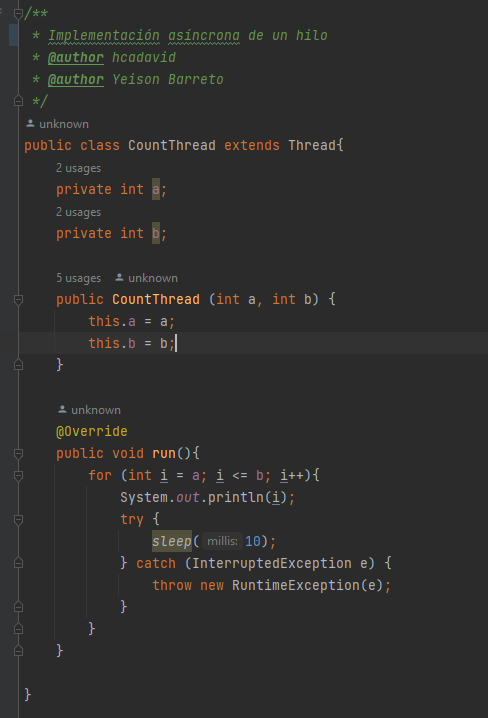
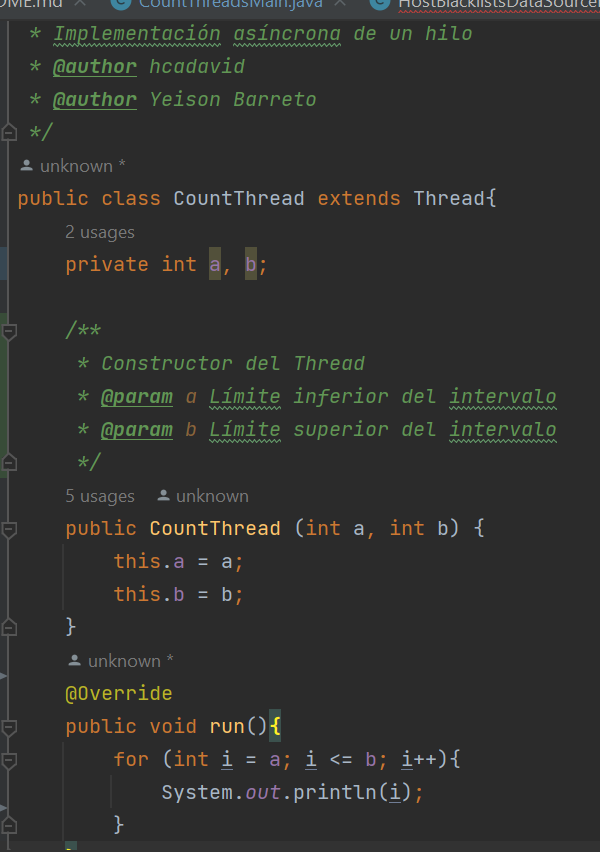
BlackList

diff --git a/src/main/java/edu/eci/arsw/blacklistvalidator/HostBlackListsValidator.java b/src/main/java/edu/eci/arsw/blacklistvalidator/HostBlackListsValidator.java
@@ -6,6 +6,8 @@
 package edu.eci.arsw.blacklistvalidator;
 
 import edu.eci.arsw.spamkeywordsdatasource.HostBlacklistsDataSourceFacade;
+
+import java.util.ArrayList;
 import java.util.LinkedList;
 import java.util.List;
 import java.util.logging.Level;
@@ -17,7 +19,7 @@ import java.util.logging.Logger;
  */
 public class HostBlackListsValidator {
 
-    private static final int BLACK_LIST_ALARM_COUNT=5;
+    protected static final int BLACK_LIST_ALARM_COUNT=5;
     
     /**
      * Check the given host's IP address in all the available black lists,
@@ -29,28 +31,32 @@ public class HostBlackListsValidator {
      * @param ipaddress suspicious host's IP address.
      * @return  Blacklists numbers where the given host's IP address was found.
      */
-    public List<Integer> checkHost(String ipaddress){
-        
-        LinkedList<Integer> blackListOcurrences=new LinkedList<>();
-        
-        int ocurrencesCount=0;
+    public List<Integer> checkHost(String ipaddress, int n){
+
         
         HostBlacklistsDataSourceFacade skds=HostBlacklistsDataSourceFacade.getInstance();
-        
-        int checkedListsCount=0;
-        
-        for (int i=0;i<skds.getRegisteredServersCount() && ocurrencesCount<BLACK_LIST_ALARM_COUNT;i++){
-            checkedListsCount++;
-            
-            if (skds.isInBlackListServer(i, ipaddress)){
-                
-                blackListOcurrences.add(i);
-                
-                ocurrencesCount++;
+
+        int part = skds.getRegisteredServersCount()/n;
+        ArrayList<OcurrencesHostBlackListsValidator> validators = new ArrayList<OcurrencesHostBlackListsValidator>();
+
+        try {
+            for (int i = 0; i<skds.getRegisteredServersCount(); i+=part) {
+                int b = (i + part) >= skds.getRegisteredServersCount() ? skds.getRegisteredServersCount() : (i += part);
+                OcurrencesHostBlackListsValidator validator = new OcurrencesHostBlackListsValidator(i, b, ipaddress, skds);
+                validators.add(validator);
+                validator.start();
             }
-        }
-        
-        if (ocurrencesCount>=BLACK_LIST_ALARM_COUNT){
+            for (OcurrencesHostBlackListsValidator validator : validators) {
+                validator.join();
+            }
+        } catch (Exception e) {}
+
+        LinkedList<Integer> blackListOcurrences = (LinkedList<Integer>) OcurrencesHostBlackListsValidator.getBlackListOcurrences();
+        int checkedListsCount = OcurrencesHostBlackListsValidator.getCheckedListsCount();
+        int ocurrencesCount = OcurrencesHostBlackListsValidator.getOcurrencesCount();
+
+
+        if (ocurrencesCount >=BLACK_LIST_ALARM_COUNT){
             skds.reportAsNotTrustworthy(ipaddress);
         }
         else{

diff --git a/src/main/java/edu/eci/arsw/blacklistvalidator/OcurrencesHostBlackListsValidator.java b/src/main/java/edu/eci/arsw/blacklistvalidator/OcurrencesHostBlackListsValidator.java
@@ -1,0 +1,58 @@
+package edu.eci.arsw.blacklistvalidator;
+
+import edu.eci.arsw.spamkeywordsdatasource.HostBlacklistsDataSourceFacade;
+
+import java.util.Collections;
+import java.util.LinkedList;
+import java.util.List;
+import java.util.concurrent.atomic.AtomicInteger;
+
+
+public class OcurrencesHostBlackListsValidator extends Thread{
+    private HostBlacklistsDataSourceFacade skds;
+    private String ipaddress;
+    private int a, b;
+
+    private static AtomicInteger checkedListsCount = new AtomicInteger(0);
+    private static AtomicInteger ocurrencesCount = new AtomicInteger(0);
+    private static List<Integer> blackListOcurrences = Collections.synchronizedList(new LinkedList<Integer>());
+
+    public OcurrencesHostBlackListsValidator(int a, int b, String ipaddress, HostBlacklistsDataSourceFacade skds) {
+        this.skds = skds;
+        this.ipaddress = ipaddress;
+        this.a = a;
+        this.b = b;
+    }
+
+    @Override
+    public void run(){
+        for (int i = a; i < b; i++){
+            if (ocurrencesCount.get() < HostBlackListsValidator.BLACK_LIST_ALARM_COUNT){
+                if (skds.isInBlackListServer(i, ipaddress)) addOcurrence(i);
+            } else break;
+            increaseCheckedListCount();
+        }
+    }
+
+    static public int getCheckedListsCount() {
+        return checkedListsCount.get();
+    }
+
+    static public int getOcurrencesCount() {
+        return ocurrencesCount.get();
+    }
+
+    static public List<Integer> getBlackListOcurrences() {
+        return new LinkedList<Integer>(blackListOcurrences);
+    }
+
+    synchronized void increaseCheckedListCount(){
+        checkedListsCount.incrementAndGet();
+    }
+
+    synchronized void addOcurrence(int ocurrence){
+        blackListOcurrences.add(ocurrence);
+        ocurrencesCount.incrementAndGet();
+    }
+
+}

diff --git a/src/main/java/edu/eci/arsw/blacklistvalidator/Main.java b/src/main/java/edu/eci/arsw/blacklistvalidator/Main.java
@@ -12,12 +12,34 @@ import java.util.List;
  * @author hcadavid
  */
 public class Main {
-    
+
     public static void main(String a[]){
+
+        Runtime vjm = Runtime.getRuntime();
+        int numberCores = vjm.availableProcessors();
+
+        System.out.println("\nNumber of Threads: "+numberCores);
+        System.out.println("Performance: " + testByThreadsNumber("202.24.34.55", numberCores));
+        System.out.println();
+
+        numberCores *= 2;
+
+        System.out.println("\nNumber of Threads: "+numberCores);
+        System.out.println("Performance: " + testByThreadsNumber("202.24.34.55", numberCores));
+        System.out.println();
+    }
+
+    public static String testByThreadsNumber(String ipaddress, int threadsNumber){
+
         HostBlackListsValidator hblv=new HostBlackListsValidator();
-        List<Integer> blackListOcurrences=hblv.checkHost("200.24.34.55");
-        System.out.println("The host was found in the following blacklists:"+blackListOcurrences);
-        
+
+        long t1 = System.currentTimeMillis(), performance;
+        List<Integer> blackListOcurrences = hblv.checkHost(ipaddress,threadsNumber);
+        performance = System.currentTimeMillis() - t1;
+        System.out.println("The host was found in the following blacklists:" + blackListOcurrences);
+
+        return "" + performance + "ms";
+
     }
     
 }

diff --git a/src/main/java/edu/eci/arsw/threads/CountThread.java b/src/main/java/edu/eci/arsw/threads/CountThread.java
@@ -11,24 +11,21 @@ package edu.eci.arsw.threads;
  * @author Yeison Barreto
  */
 public class CountThread extends Thread{
-    private int a;
-    private int b;
+    private int a, b;
 
+    /**
+     * Constructor del Thread
+     * @param a Límite inferior del intervalo
+     * @param b Límite superior del intervalo
+     */
     public CountThread (int a, int b) {
         this.a = a;
         this.b = b;
     }
-
     @Override
     public void run(){
         for (int i = a; i <= b; i++){
             System.out.println(i);
-            try {
-                sleep(10);
-            } catch (InterruptedException e) {
-                throw new RuntimeException(e);
-            }
         }
     }
-
 }
